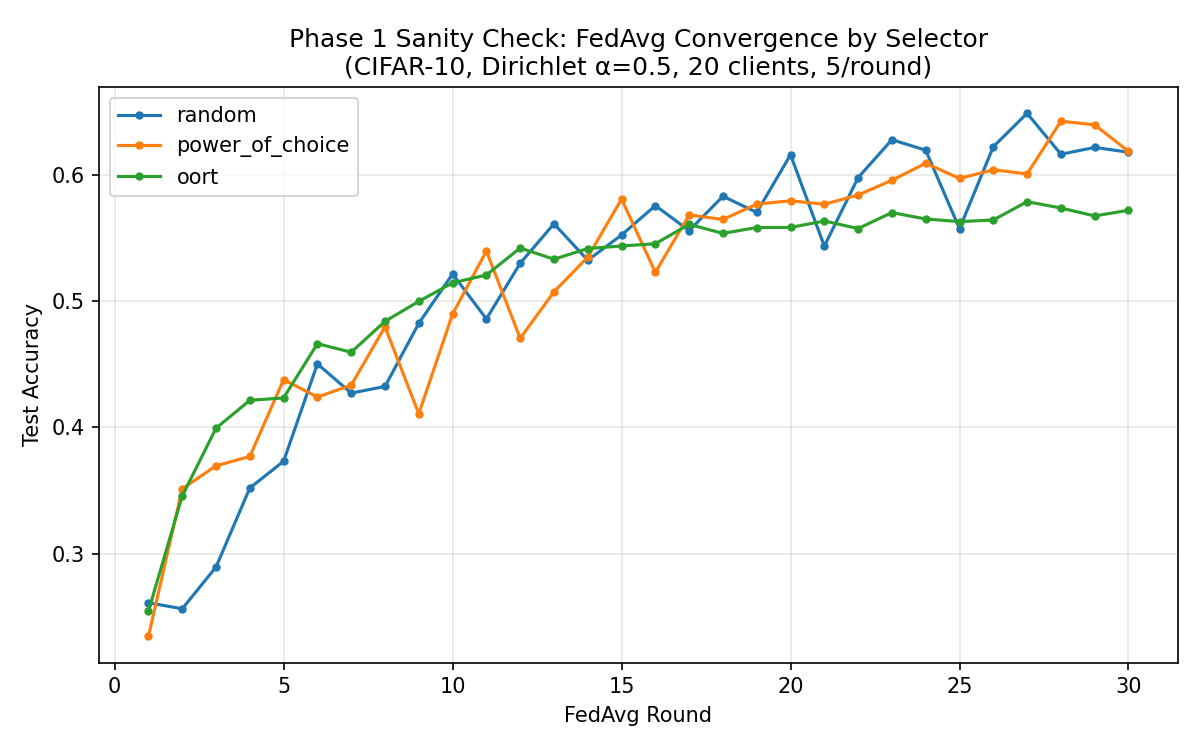
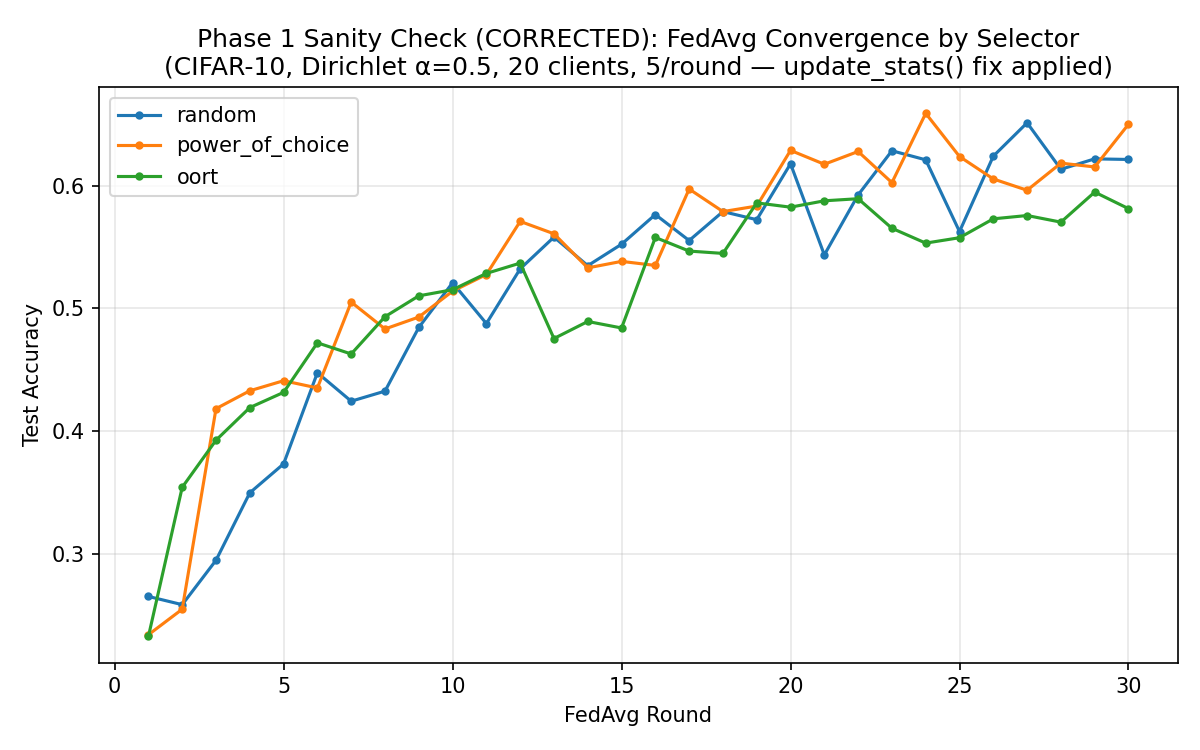
Fix: wire update_stats() into run_fedavg() so PoC/Oort receive real per-round loss feedback. Corrected Phase 1 results: random=0.6205, poc=0.6338, oort=0.5927 (supersedes earlier bugged-harness numbers)

diff --git a/fl_core/fedavg.py b/fl_core/fedavg.py
@@ -1,6 +1,15 @@
 """Plain-Python FedAvg training loop. No RPC/simulation framework needed since
 everything runs in a single process — kept swappable for a real framework later
-if the project ever needs true distributed execution."""
+if the project ever needs true distributed execution.
+
+CORRECTED (Phase 2 fix): local_train() now returns average training loss over
+the final local epoch, and run_fedavg() feeds it back to the selector via
+update_stats() after each client trains. This was previously missing entirely
+— PoC and Oort never received real per-round loss signal, so their "select
+by highest loss" logic was comparing tied constructor-default values
+(float('inf')) for the whole run. This fix is what makes their utility-based
+selection logic actually functional.
+"""
 
 import copy
 from typing import List
@@ -21,23 +30,28 @@ def set_flat_state(model: nn.Module, state):
 def local_train(model: nn.Module, dataset: Dataset, epochs: int, lr: float,
                  batch_size: int, device: str):
     """Trains a copy of `model` on one client's local data for `epochs` epochs.
-    Returns the resulting state_dict and the number of samples trained on
-    (needed for FedAvg's weighted averaging)."""
+    Returns the resulting state_dict, the number of samples trained on, and
+    the average training loss over the final epoch (needed by loss-aware
+    selectors — PoC, Oort, LLM orchestrators — via update_stats())."""
     local_model = copy.deepcopy(model).to(device)
     local_model.train()
     optimizer = torch.optim.SGD(local_model.parameters(), lr=lr, momentum=0.9)
     criterion = nn.CrossEntropyLoss()
     loader = DataLoader(dataset, batch_size=batch_size, shuffle=True)
 
-    for _ in range(epochs):
+    final_epoch_losses = []
+    for epoch in range(epochs):
+        final_epoch_losses = []
         for x, y in loader:
             x, y = x.to(device), y.to(device)
             optimizer.zero_grad()
             loss = criterion(local_model(x), y)
             loss.backward()
             optimizer.step()
+            final_epoch_losses.append(loss.item())
 
-    return get_flat_state(local_model), len(dataset)
+    avg_loss = sum(final_epoch_losses) / len(final_epoch_losses) if final_epoch_losses else float("inf")
+    return get_flat_state(local_model), len(dataset), avg_loss
 
 
 def fedavg_aggregate(states_and_counts):
@@ -45,13 +59,11 @@ def fedavg_aggregate(states_and_counts):
     local sample count — standard FedAvg aggregation."""
     total_samples = sum(n for _, n in states_and_counts)
     avg_state = copy.deepcopy(states_and_counts[0][0])
-
     for key in avg_state.keys():
         avg_state[key] = sum(
             state[key].float() * (n / total_samples)
             for state, n in states_and_counts
         ).to(avg_state[key].dtype)
-
     return avg_state
 
 
@@ -72,9 +84,10 @@ def evaluate(model: nn.Module, dataset: Dataset, device: str, batch_size: int = 
 def run_fedavg(model: nn.Module, client_datasets: List[Dataset], test_dataset: Dataset,
                selector, num_rounds: int, clients_per_round: int,
                local_epochs: int, lr: float, batch_size: int, device: str):
-    """Runs `num_rounds` of FedAvg, using `selector` to pick `clients_per_round`
-    clients each round. Returns the trained global model and a per-round
-    test-accuracy history (for plotting / gate-check verification)."""
+    """Runs `num_rounds` of FedAvg. After each client trains, calls
+    selector.update_stats() with the observed local loss — required for
+    loss-aware selectors (PoC, Oort, LLM orchestrators) to see fresh
+    per-round signal rather than only their constructor-time defaults."""
     model = model.to(device)
     accuracy_history = []
 
@@ -83,10 +96,11 @@ def run_fedavg(model: nn.Module, client_datasets: List[Dataset], test_dataset: D
 
         states_and_counts = []
         for client_id in selected_ids:
-            state, n_samples = local_train(
+            state, n_samples, avg_loss = local_train(
                 model, client_datasets[client_id], local_epochs, lr, batch_size, device
             )
             states_and_counts.append((state, n_samples))
+            selector.update_stats(client_id, loss=avg_loss)
 
         new_global_state = fedavg_aggregate(states_and_counts)
         set_flat_state(model, new_global_state)
